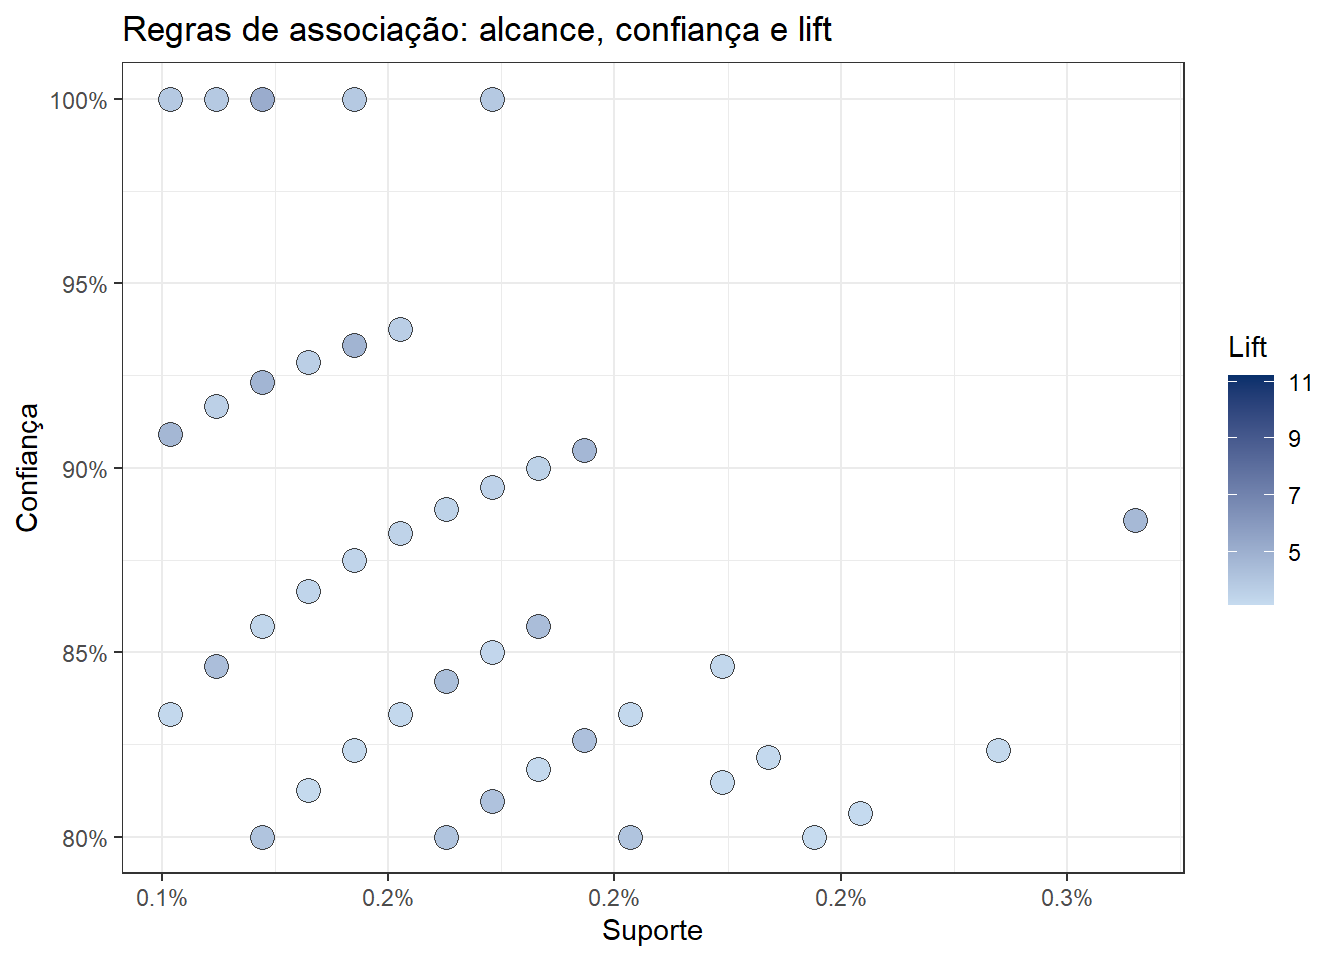
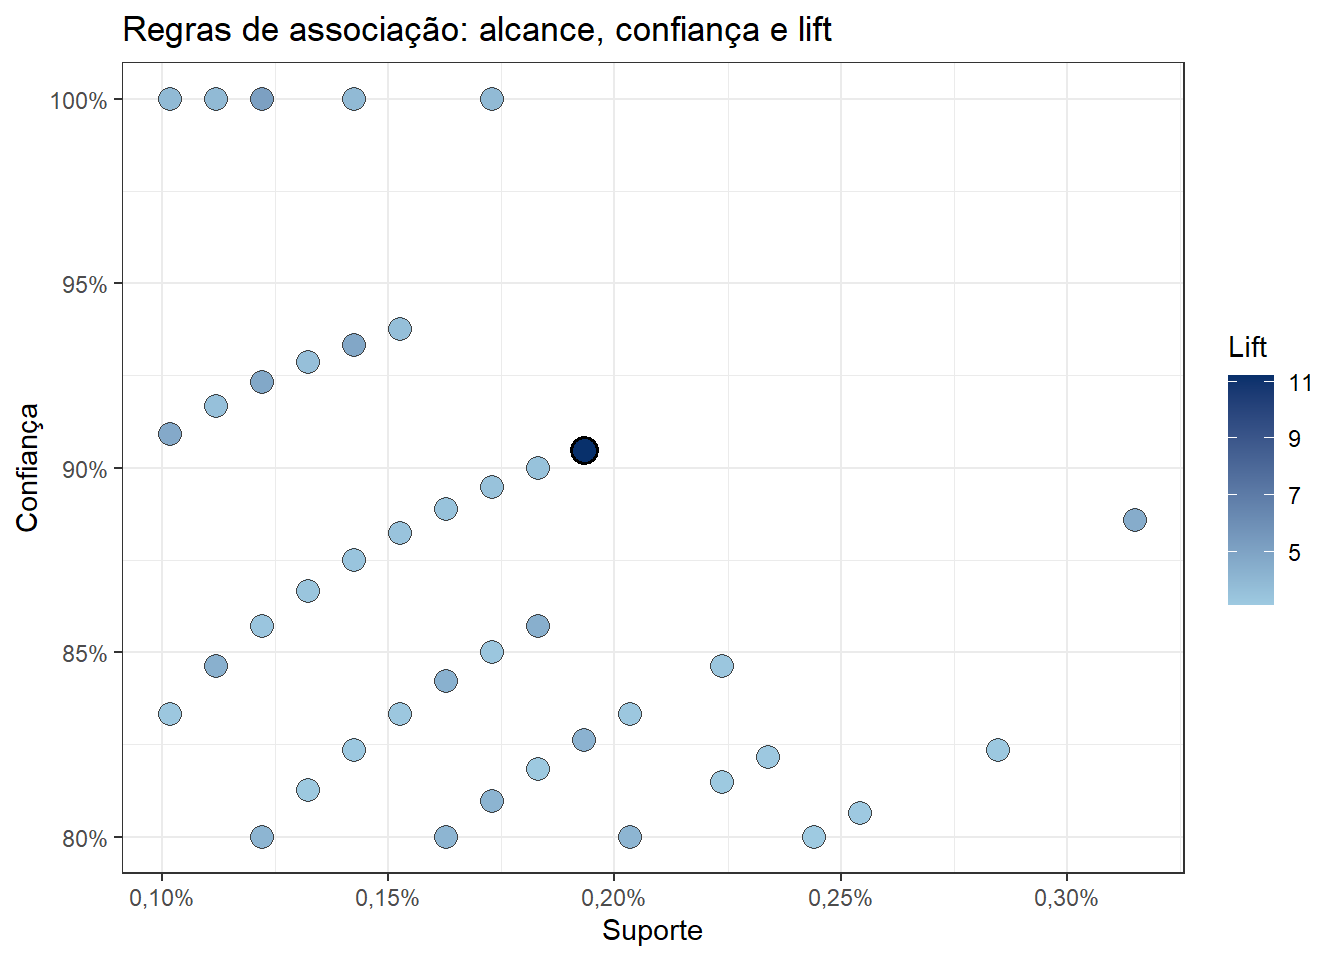
Renderiza livro sem o gráfico duplicado do capítulo 6
Atualiza a saída renderizada após o PR #5 e remove a figura que deixou
de ser usada.

diff --git a/_book/06_groceries.html b/_book/06_groceries.html
@@ -589,21 +589,12 @@ creating S4 object  ... done [0.00s].</code></pre>
 <li><p><strong>Regras de Alta Confiança</strong>: São óbvias (ex: quem compra pão, compra manteiga). O risco de errar é baixo, mas o valor agregado da sugestão também pode ser baixo.</p></li>
 <li><p><strong>Regras de Alto Lift</strong>: São as “minas de ouro”. Elas mostram associações surpreendentes que a intuição humana geralmente não percebe, mas costumam alcançar poucas cestas.</p></li>
 </ul>
-<p>O gráfico abaixo mostra cada regra como um ponto: o suporte (alcance, em escala logarítmica) no eixo x, a confiança no eixo y e o lift na cor.</p>
+<p>O gráfico abaixo mostra cada regra como um ponto: o suporte (alcance) no eixo x, a confiança no eixo y e o lift na cor.</p>
 <div class="cell">
 <div class="cell-output-display">
 <div>
 <figure class="figure">
 <p><img src="06_groceries_files/figure-html/unnamed-chunk-8-1.png" class="img-fluid figure-img" width="672"></p>
-</figure>
-</div>
-</div>
-</div>
-<div class="cell">
-<div class="cell-output-display">
-<div>
-<figure class="figure">
-<p><img src="06_groceries_files/figure-html/unnamed-chunk-9-1.png" class="img-fluid figure-img" width="672"></p>
 </figure>
 </div>
 </div>
@@ -806,7 +797,7 @@ set item appearances ...[1 item(s)] done [0.00s].
 set transactions ...[169 item(s), 9835 transaction(s)] done [0.00s].
 sorting and recoding items ... [136 item(s)] done [0.00s].
 creating transaction tree ... done [0.00s].
-checking subsets of size 1 2 3 4 5 done [0.15s].
+checking subsets of size 1 2 3 4 5 done [0.01s].
 writing ... [2 rule(s)] done [0.00s].
 creating S4 object  ... done [0.00s].</code></pre>
 </div>
